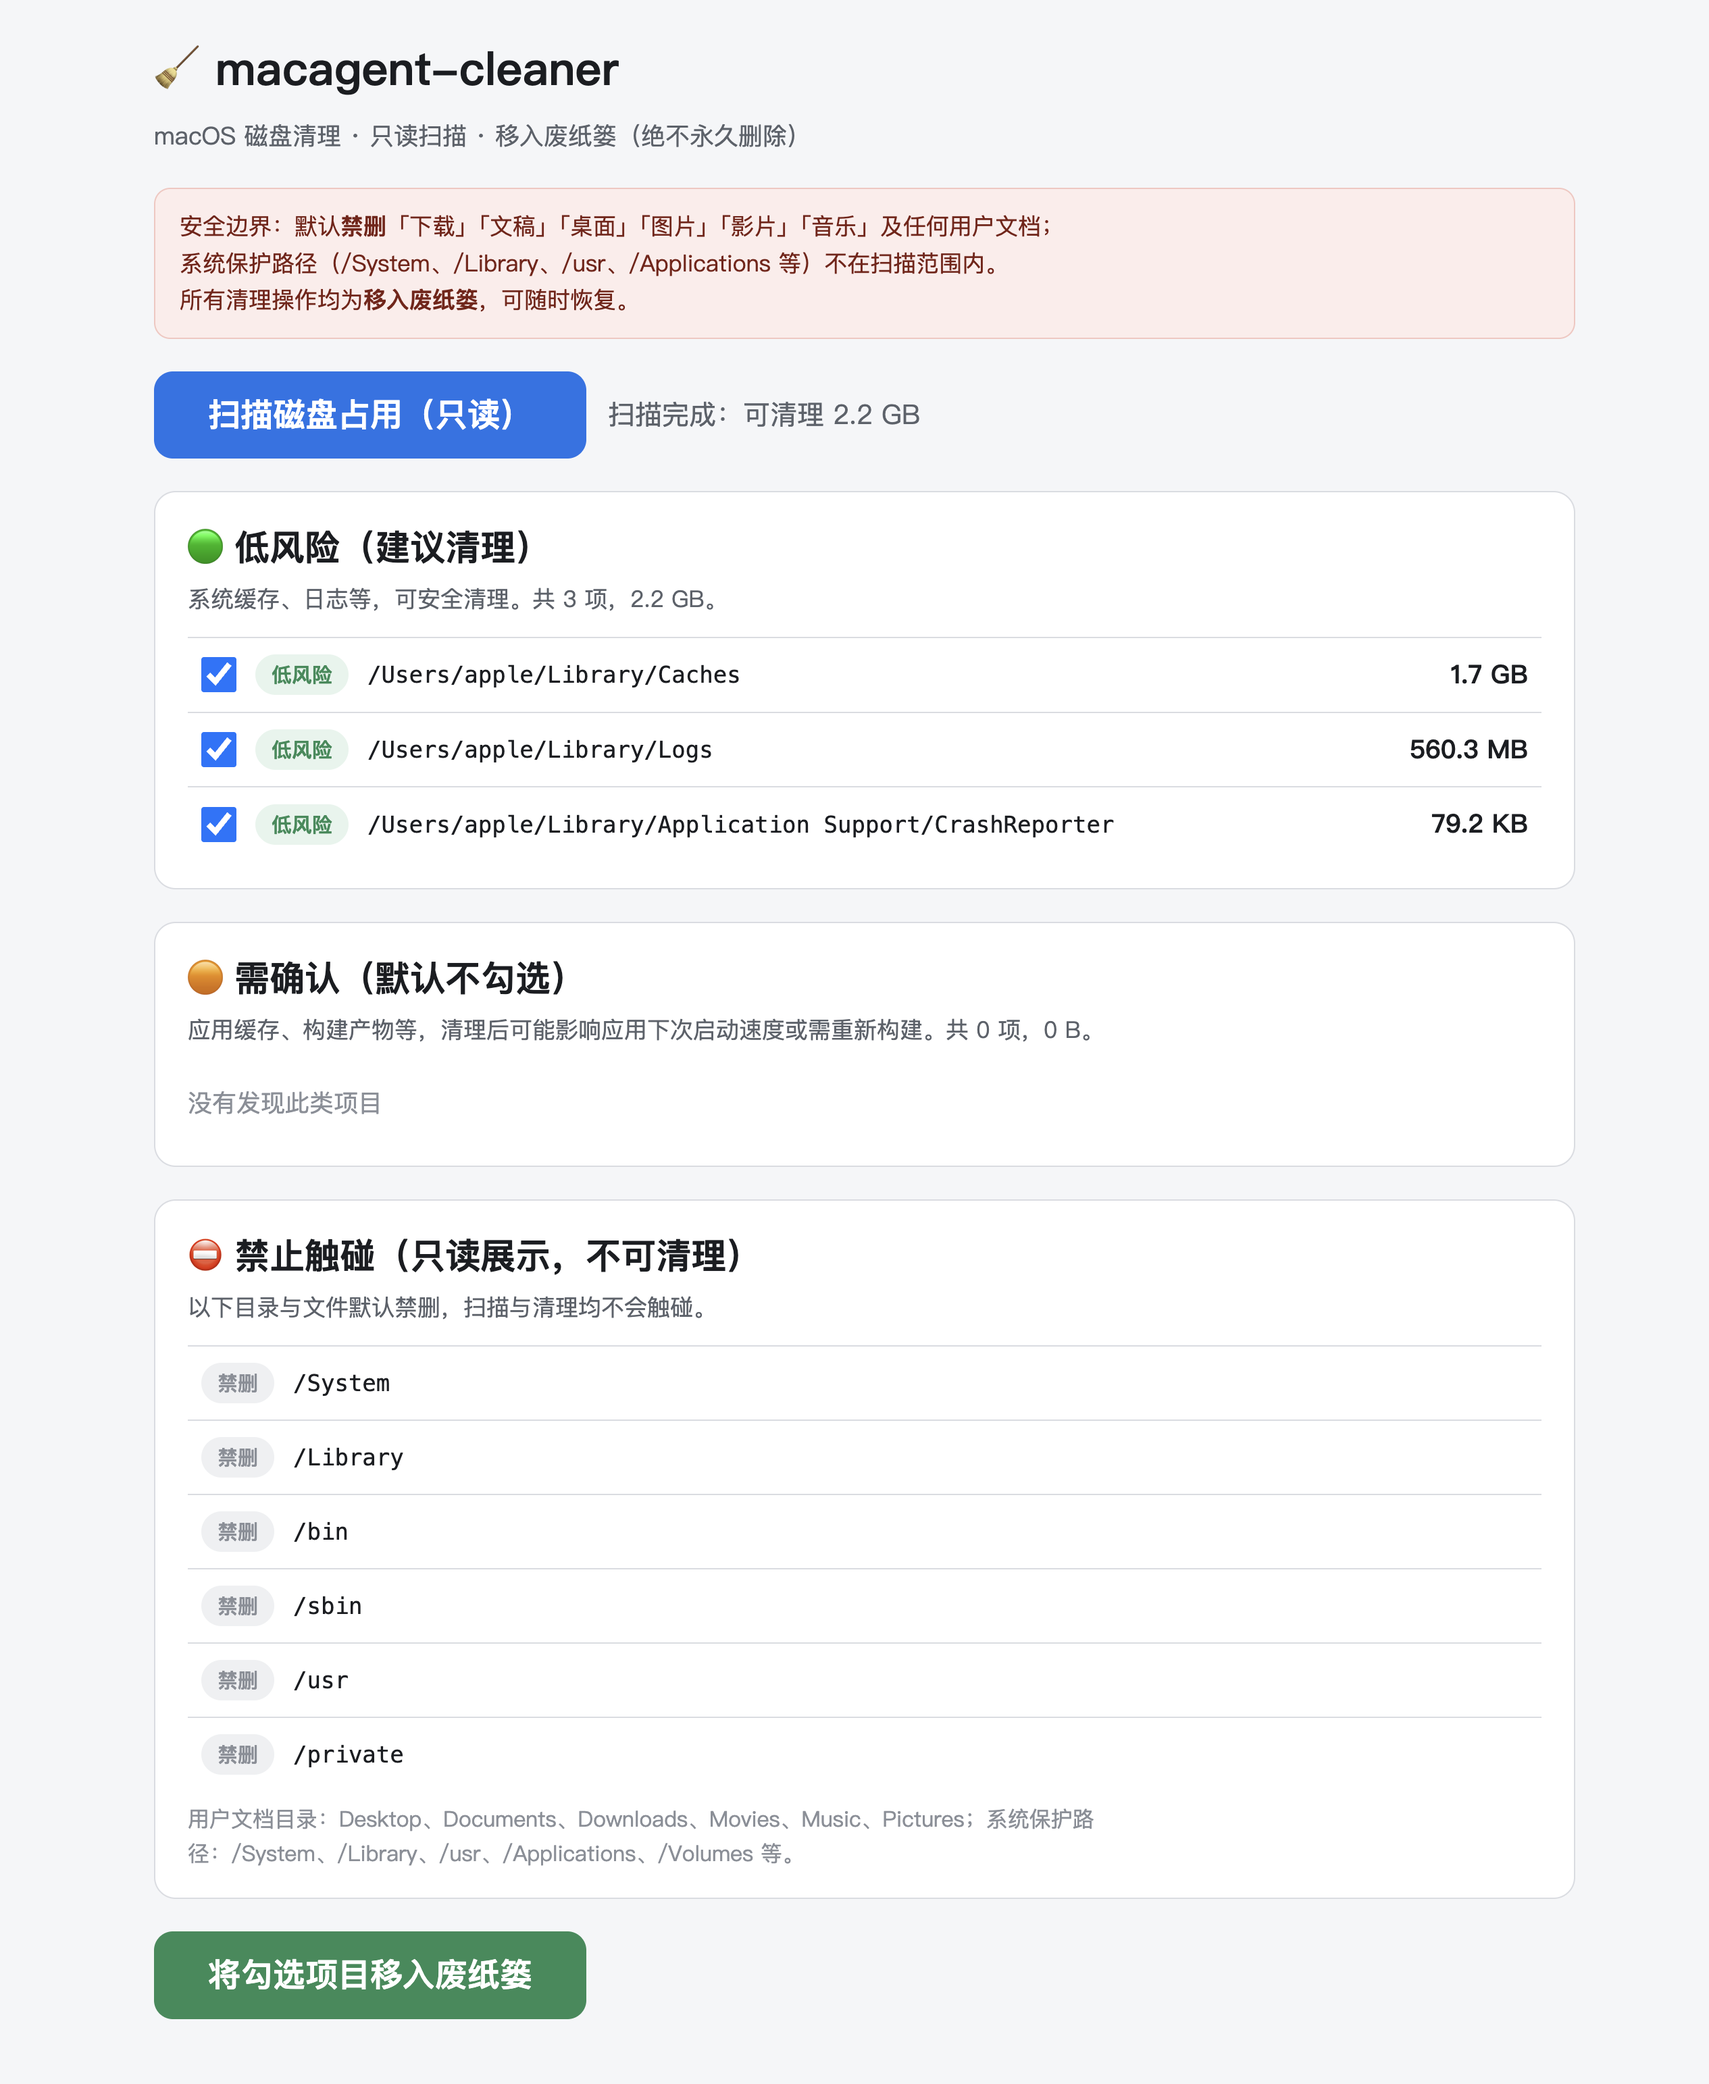
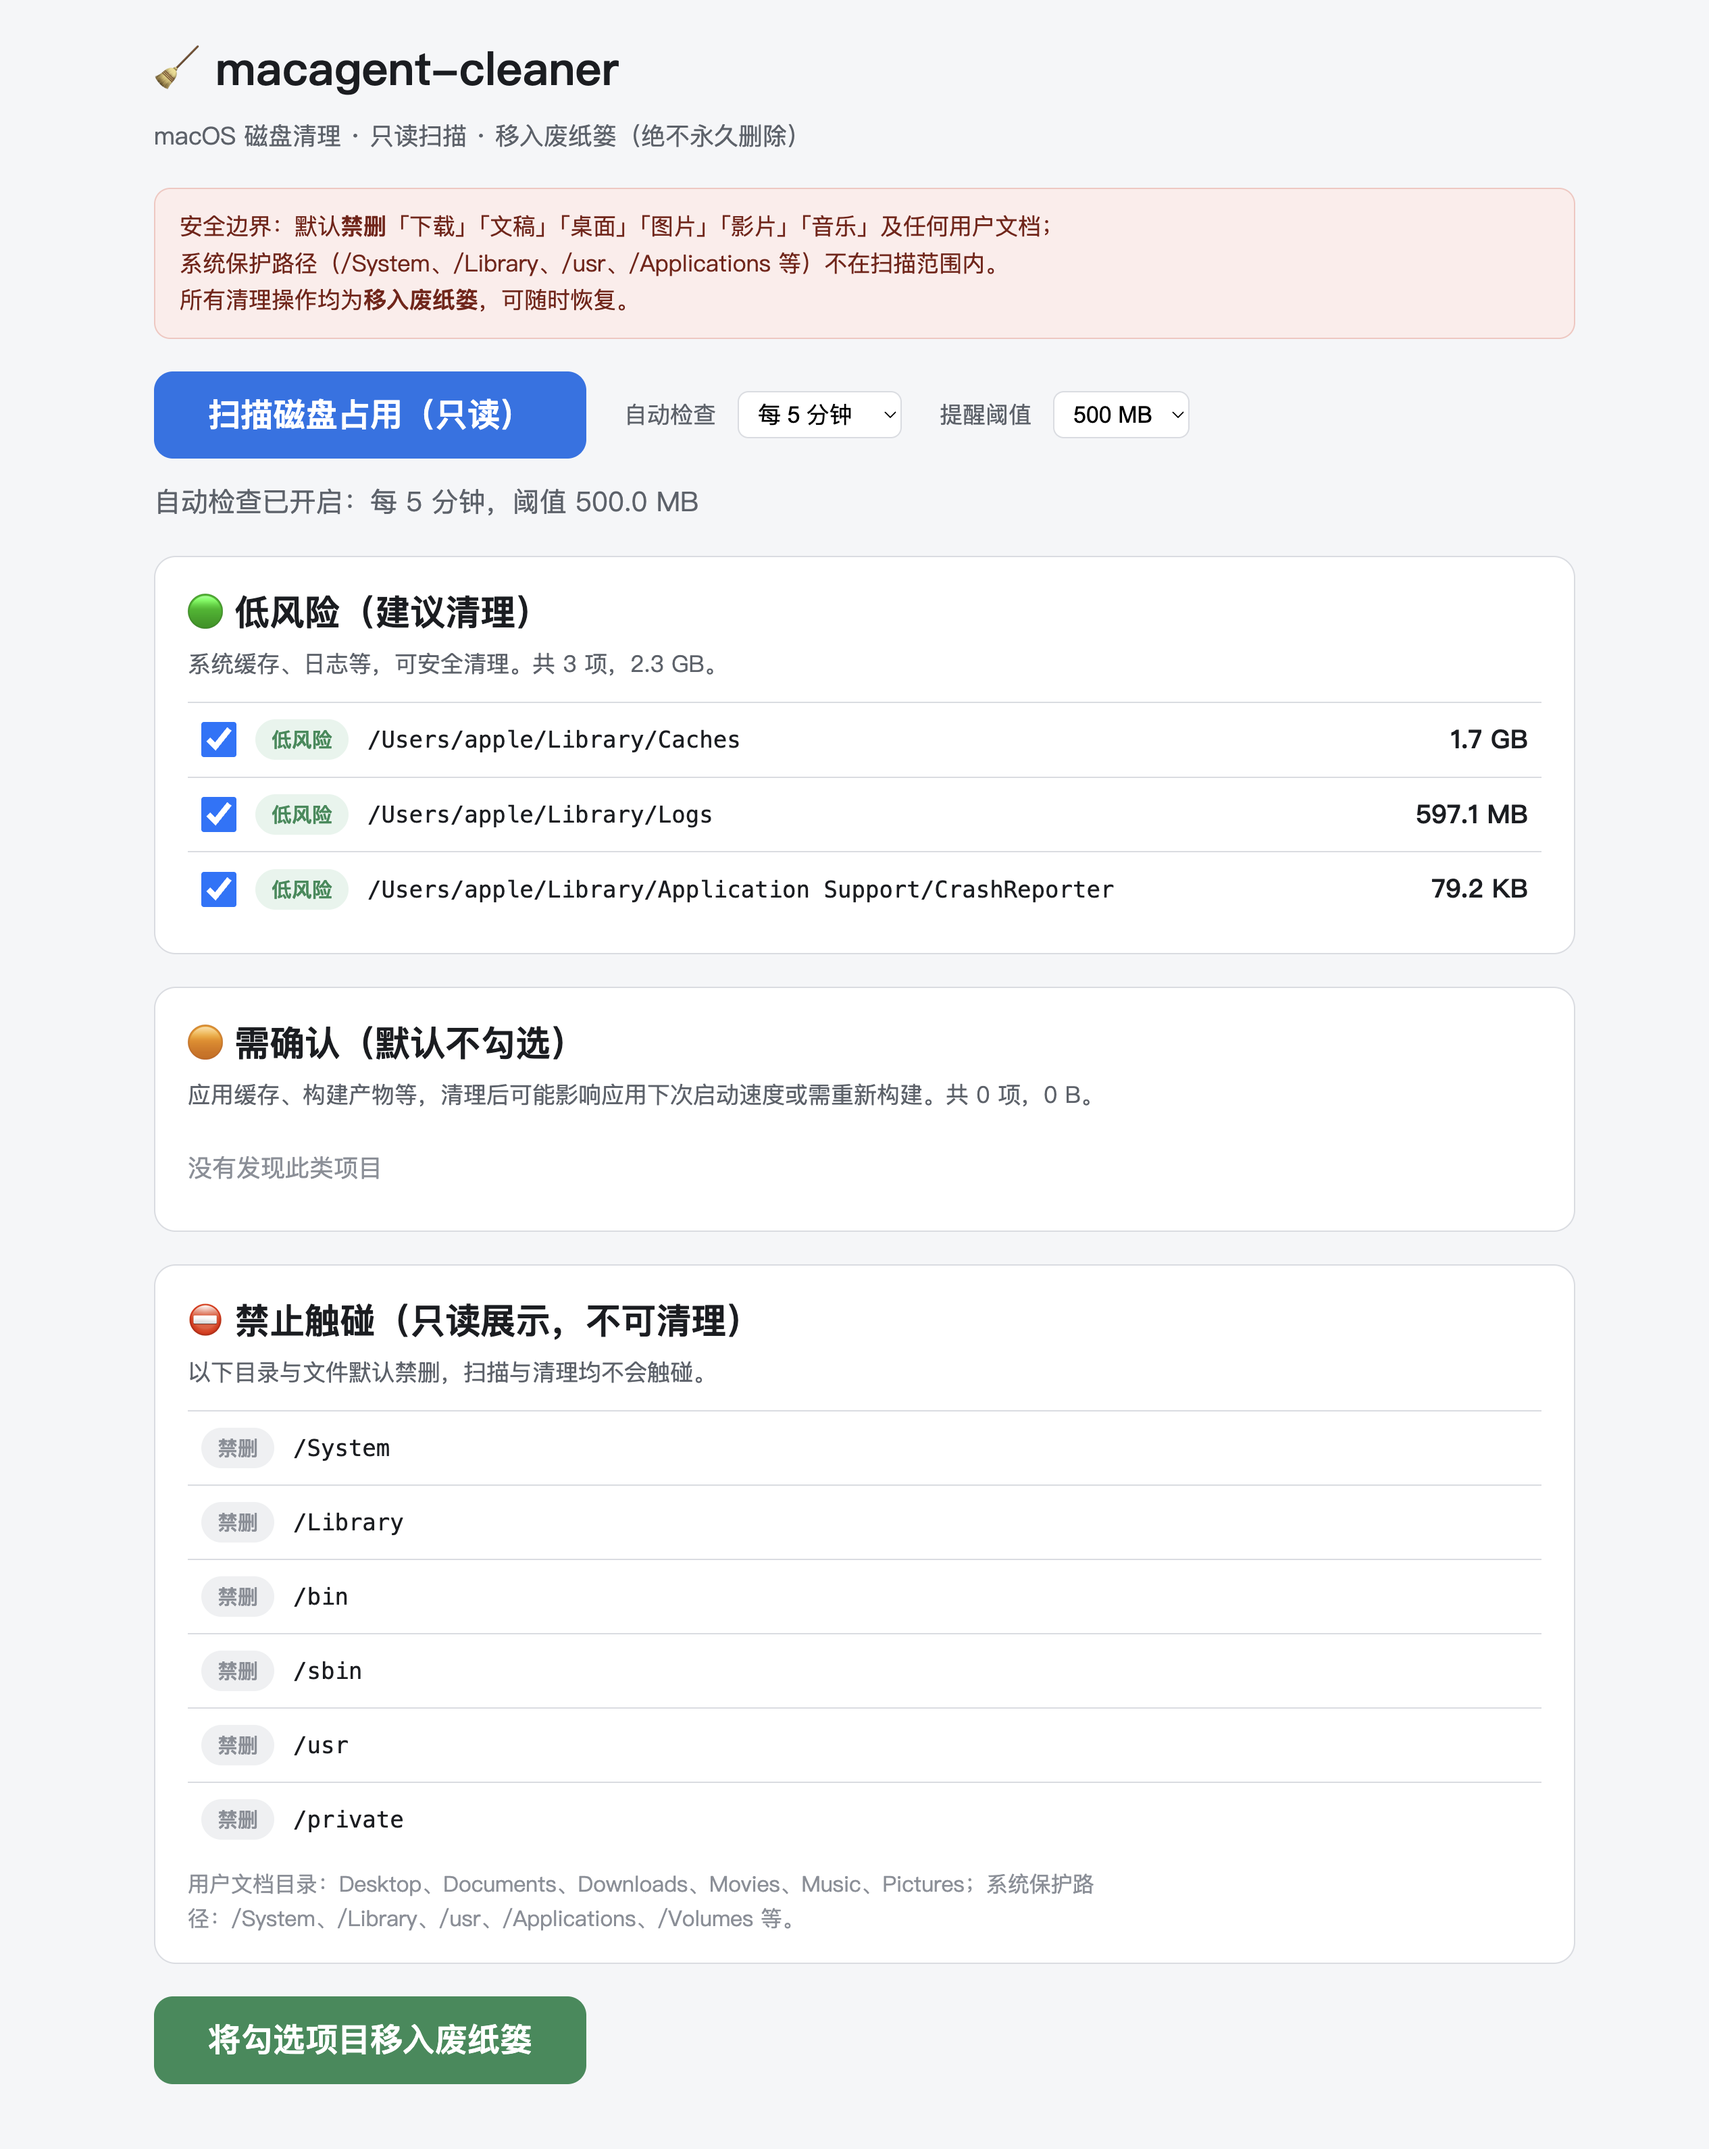
feat: 软件归属自动识别 + 定时自动检查 + 真实界面截图

diff --git a/scanner.py b/scanner.py
@@ -62,6 +62,58 @@ SCAN_ROOTS = {
 # 应用支持目录下，仅收集名称含 cache 的子目录（避免误伤应用真实数据）
 CACHE_NAME_HINT = "cache"
 
+# ---------------------------------------------------------------------------
+# 软件归属识别（agent 软件自动归类）
+# ---------------------------------------------------------------------------
+
+# 路径关键词 -> (软件名, 归类)。按顺序匹配，命中即归属。
+# 关键词用小写，匹配路径的目录名片段。
+VENDOR_RULES = [
+    (("opencodedesktop",),         "OpenCode",        "终端 CLI"),
+    (("trae",),                    "Trae",            "IDE 编辑器"),
+    (("qoder",),                   "Qoder",           "IDE 编辑器"),
+    (("cursor",),                  "Cursor",          "IDE 编辑器"),
+    (("windsurf",),                "Windsurf",        "IDE 编辑器"),
+    (("claude",),                  "Claude Code",     "终端 CLI"),
+    (("opencode",),                "OpenCode",        "终端 CLI"),
+    (("codex",),                   "Codex CLI",       "终端 CLI"),
+    (("gemini",),                  "Gemini CLI",      "终端 CLI"),
+    (("zcode",),                   "ZCode",           "桌面客户端"),
+    (("raccoon",),                 "Raccoon",         "桌面客户端"),
+    (("workbuddy",),               "WorkBuddy",       "桌面客户端"),
+    (("marvis",),                  "Marvis",          "桌面客户端"),
+    (("mmx-agent",),               "MMX Agent",       "桌面客户端"),
+    (("agnescode",),               "AgnesCode",       "桌面客户端"),
+    (("puppeteer",),               "Puppeteer",       "开发工具"),
+    (("playwright",),              "Playwright",      "开发工具"),
+    (("homebrew",),                "Homebrew",        "开发工具"),
+    (("cacache",),                 "npm",             "开发工具"),
+    (("node-gyp",),                "node-gyp",        "开发工具"),
+    (("electron-builder",),        "electron-builder","开发工具"),
+    (("_npx",),                    "npm",             "开发工具"),
+    (("tabbit",),                  "Tabbit",          "浏览器"),
+    (("bambu",),                   "Bambu Studio",    "应用"),
+]
+
+# 段级精确匹配（避免短词子串误判）
+VENDOR_SEGMENT_RULES = [
+    (("uv",),                      "uv",              "开发工具"),
+    (("node",),                    "Node.js",         "开发工具"),
+    (("edge",),                    "Microsoft Edge",  "浏览器"),
+]
+
+def _identify_vendor(path_str: str):
+    """根据路径识别归属软件与归类；未命中返回 (None, None)。"""
+    low = path_str.lower()
+    for keywords, name, cat in VENDOR_RULES:
+        if any(k in low for k in keywords):
+            return name, cat
+    low_parts = {p.lower() for p in Path(path_str).parts}
+    for keywords, name, cat in VENDOR_SEGMENT_RULES:
+        if any(k in low_parts for k in keywords):
+            return name, cat
+    return None, None
+
 
 # ---------------------------------------------------------------------------
 # 扫描实现（只读）
@@ -128,11 +180,14 @@ def scan() -> dict:
                         continue
                     size = _dir_size(child)
                     if size > 0:
+                        vendor, vendor_category = _identify_vendor(str(child))
                         items.append({
                             "path": str(child),
                             "size": size,
                             "risk": risk,
                             "category": category,
+                            "vendor": vendor,
+                            "vendor_category": vendor_category,
                         })
             except (OSError, PermissionError):
                 continue

diff --git a/webui.py b/webui.py
@@ -94,6 +94,7 @@ PAGE = """<!DOCTYPE html>
   .tag-low { background: var(--green-bg); color: var(--green); }
   .tag-confirm { background: var(--orange-bg); color: var(--orange); }
   .tag-forbidden { background: var(--gray-bg); color: var(--gray); }
+  .tag-vendor { background: #e8f0fe; color: #1a56b0; }
   .hint { font-size: 16px; color: #8a8f98; margin-top: 8px; }
   .empty { color: #8a8f98; padding: 12px 0; font-size: 18px; }
   .summary { font-size: 22px; font-weight: 600; margin: 12px 0; }
@@ -114,6 +115,20 @@ PAGE = """<!DOCTYPE html>
 
   <div class="bar">
     <button class="btn btn-primary" id="btnScan" onclick="runScan()">扫描磁盘占用（只读）</button>
+    <label for="autoInterval" style="font-size:17px;color:#5c626b;margin-left:12px;">自动检查</label>
+    <select id="autoInterval" onchange="toggleAutoCheck()" style="font-size:17px;padding:6px 10px;border-radius:8px;border:1px solid var(--border);">
+      <option value="0">关闭</option>
+      <option value="5">每 5 分钟</option>
+      <option value="15" selected>每 15 分钟</option>
+      <option value="30">每 30 分钟</option>
+      <option value="60">每 60 分钟</option>
+    </select>
+    <label for="autoThreshold" style="font-size:17px;color:#5c626b;margin-left:12px;">提醒阈值</label>
+    <select id="autoThreshold" onchange="toggleAutoCheck()" style="font-size:17px;padding:6px 10px;border-radius:8px;border:1px solid var(--border);">
+      <option value="104857600">100 MB</option>
+      <option value="524288000" selected>500 MB</option>
+      <option value="1073741824">1 GB</option>
+    </select>
     <span class="status" id="status">尚未扫描</span>
   </div>
 
@@ -128,6 +143,19 @@ PAGE = """<!DOCTYPE html>
 
 <script>
 let lastScan = null;
+let autoTimer = null;
+
+function toggleAutoCheck() {
+  const mins = parseInt(document.getElementById("autoInterval").value, 10);
+  if (autoTimer) { clearInterval(autoTimer); autoTimer = null; }
+  const status = document.getElementById("status");
+  if (mins > 0) {
+    autoTimer = setInterval(runScan, mins * 60 * 1000);
+    status.textContent = `自动检查已开启：每 ${mins} 分钟，阈值 ${fmtSize(parseInt(document.getElementById("autoThreshold").value, 10))}`;
+  } else {
+    status.textContent = "自动检查已关闭";
+  }
+}
 
 function fmtSize(n) {
   const units = ["B","KB","MB","GB","TB"];
@@ -183,17 +211,25 @@ function render(data) {
   const actionBar = document.getElementById("actionBar");
   if (low.length + confirm.length > 0) actionBar.style.display = "flex";
   document.getElementById("actionBar").style.display = "flex";
-  document.getElementById("status").textContent = `扫描完成：可清理 ${fmtSize((s.low_risk||0)+(s.need_confirm||0))}`;
+  const total = (s.low_risk||0) + (s.need_confirm||0);
+  let st = `扫描完成：可清理 ${fmtSize(total)}`;
+  const th = parseInt(document.getElementById("autoThreshold").value, 10);
+  if (autoTimer && total >= th) st += "  ⚠ 达到自动检查阈值";
+  document.getElementById("status").textContent = st;
 }
 
 function itemHtml(it) {
   const tag = it.risk === "low_risk"
     ? '<span class="tag tag-low">低风险</span>'
     : '<span class="tag tag-confirm">需确认</span>';
+  const vendor = it.vendor
+    ? `<span class="tag tag-vendor">${esc(it.vendor)}${it.vendor_category ? " · " + esc(it.vendor_category) : ""}</span>`
+    : "";
   const checked = it.risk === "low_risk" ? "checked" : "";
   return `<div class="item">
     <input type="checkbox" data-risk="${it.risk}" ${checked}>
     ${tag}
+    ${vendor}
     <span class="path">${esc(it.path)}</span>
     <span class="size">${fmtSize(it.size)}</span>
   </div>`;
